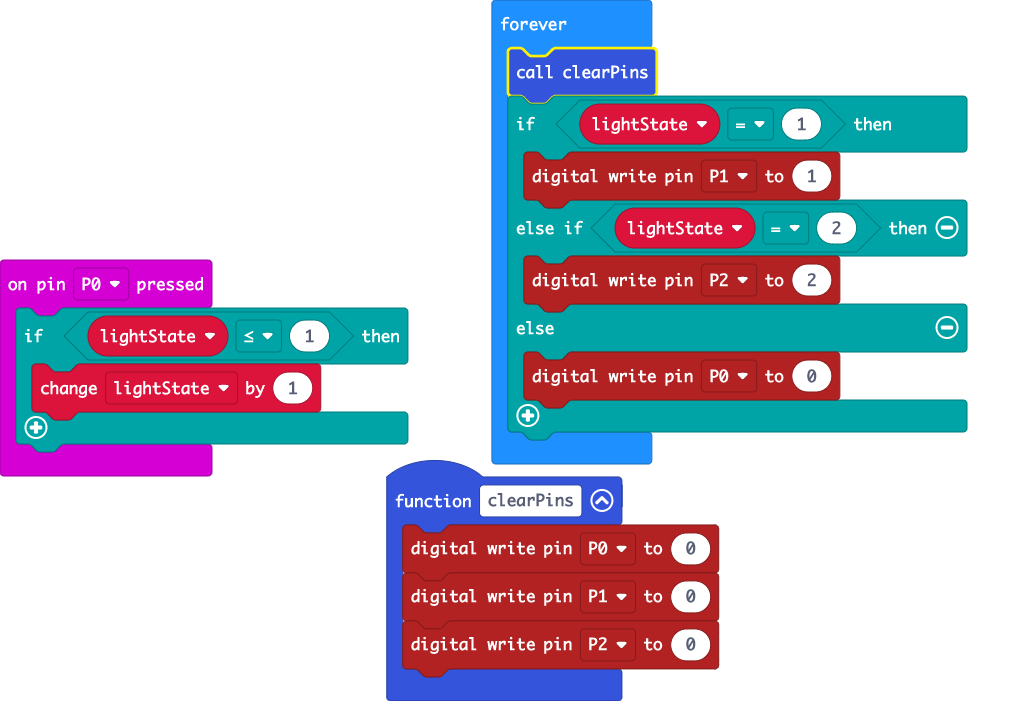
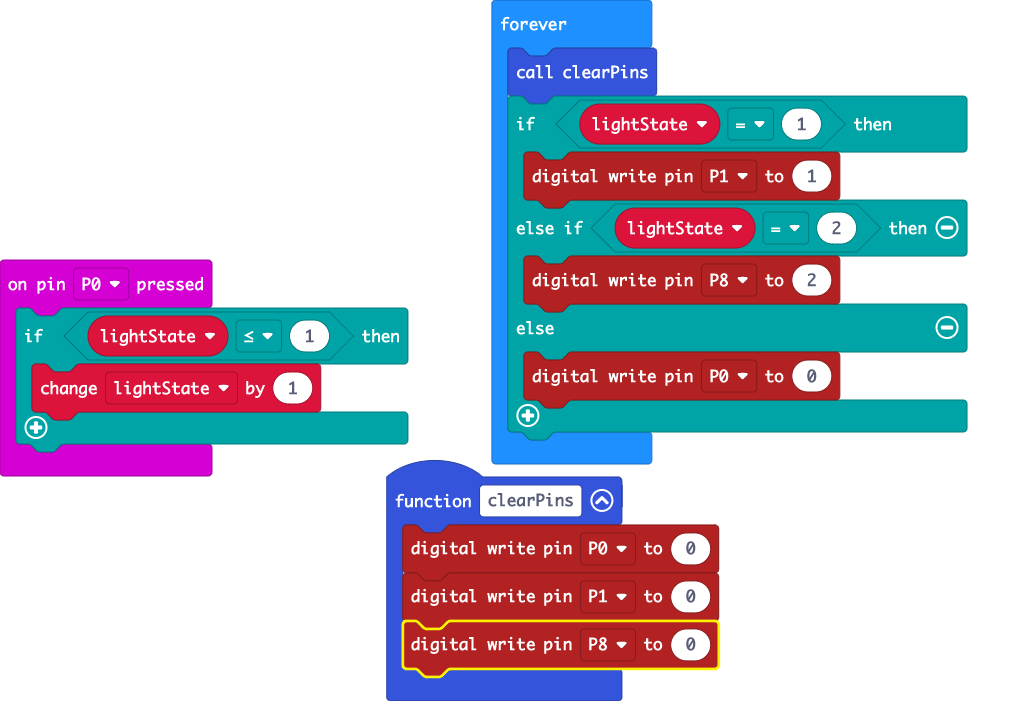
changed pin two to pin 8

Changed region(s): [[0.3955, 0.8688, 0.7301, 0.9586], [0.4868, 0.0599, 0.6693, 0.1498], [0.6997, 0.3894, 0.7301, 0.4194]]

diff --git a/main.ts b/main.ts
@@ -7,14 +7,14 @@ input.onPinPressed(TouchPin.P0, function () {
 function clearPins () {
     pins.digitalWritePin(DigitalPin.P0, 0)
     pins.digitalWritePin(DigitalPin.P1, 0)
-    pins.digitalWritePin(DigitalPin.P2, 0)
+    pins.digitalWritePin(DigitalPin.P8, 0)
 }
 basic.forever(function () {
     clearPins()
     if (lightState == 1) {
         pins.digitalWritePin(DigitalPin.P1, 1)
     } else if (lightState == 2) {
-        pins.digitalWritePin(DigitalPin.P2, 2)
+        pins.digitalWritePin(DigitalPin.P8, 2)
     } else {
         pins.digitalWritePin(DigitalPin.P0, 0)
     }
